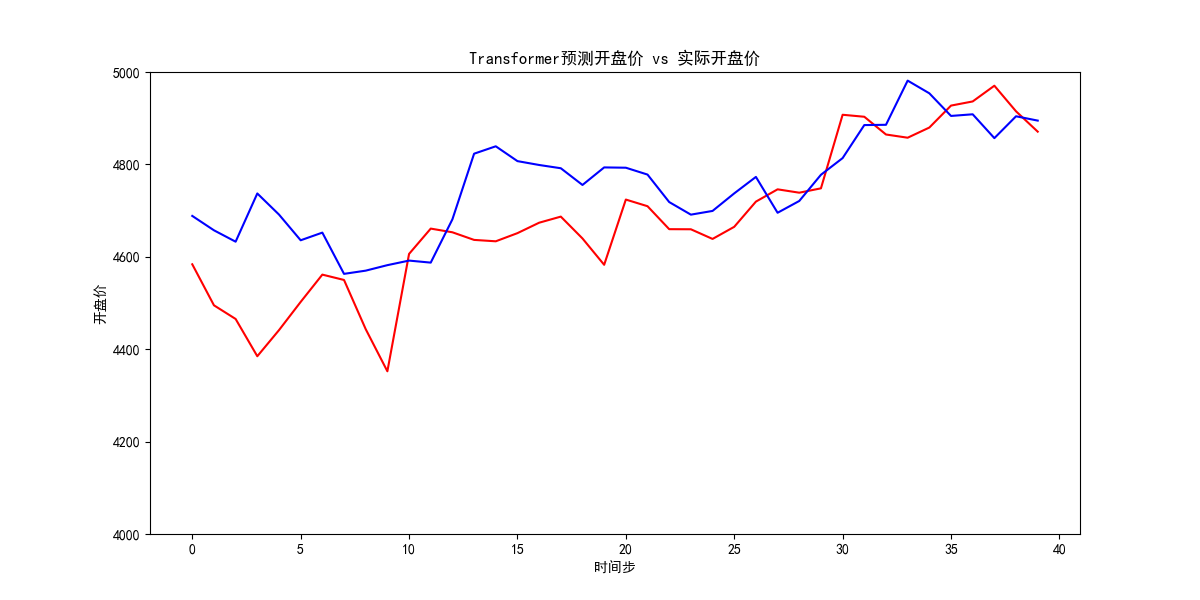
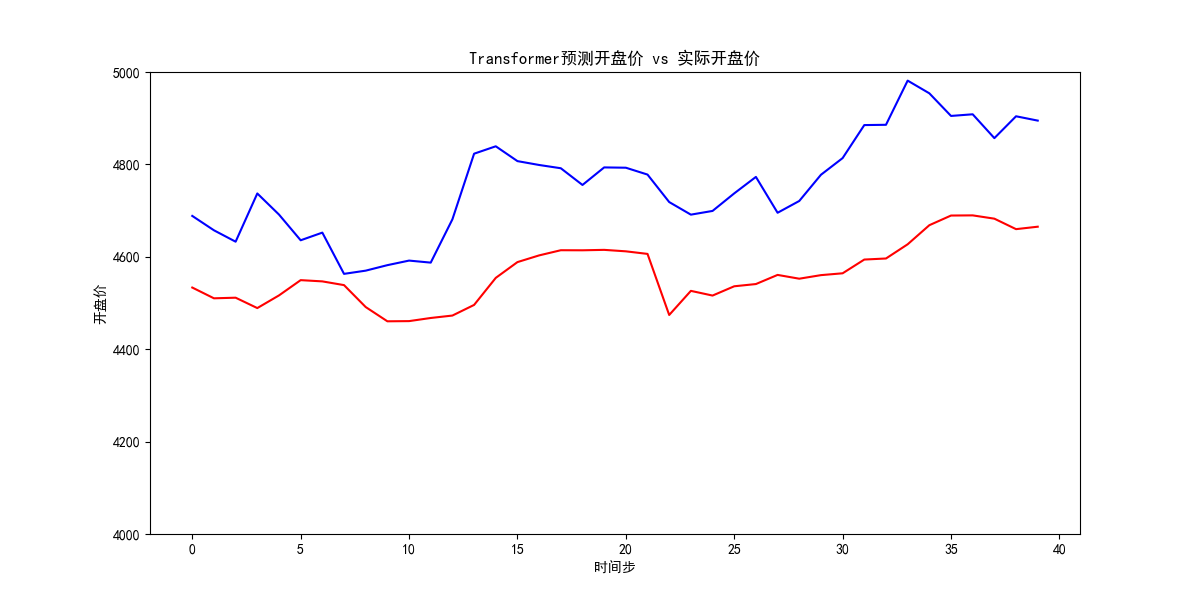
tenth modification

diff --git a/transfomer_stock_prediction.py b/transfomer_stock_prediction.py
@@ -13,16 +13,18 @@ import torch.nn.functional as F
 torch.random.manual_seed(0)
 np.random.seed(0)
 
-time_step = 10  # 根据10天数据预测第11天
-
-df = pd.read_csv("merged_file.csv")
-
-
-flag = input("是否进行股票市场舆情分析[是]|[否]:")
+flag = input("是否进行股票市场舆情分析[是]|[否](默认):")
 if flag == "是":
     vector_size = 6
 else:
     vector_size = 5
+
+# 前10天分析第11天
+time_step = 10
+# 按照9：1划分数据集
+train_ratio = 0.9
+# 设置训练轮次
+epoch = 5
 
 
 class PositionalEncoding(nn.Module):
@@ -50,7 +52,7 @@ class PositionalEncoding(nn.Module):
 class TransAm(nn.Module):
     def __init__(
         self, feature_size=vector_size, num_layers=2, hidden_size=64, dropout=0.1
-    ):  # 修改特征维度为 6
+    ):
         super(TransAm, self).__init__()
         self.model_type = "Transformer"
         self.hidden_size = hidden_size
@@ -59,7 +61,7 @@ class TransAm(nn.Module):
         # 将 feature_size 传递给 PositionalEncoding，以便匹配新的输入维度
         self.pos_encoder = PositionalEncoding(d_model=feature_size)
         self.encoder_layer = nn.TransformerEncoderLayer(
-            d_model=feature_size, nhead=1, dropout=dropout, batch_first=True
+            d_model=feature_size, nhead=feature_size, dropout=dropout, batch_first=True
         )
         self.transformer_encoder = nn.TransformerEncoder(
             self.encoder_layer, num_layers=num_layers
@@ -150,7 +152,7 @@ class AttnDecoder(nn.Module):
 
 
 class StockDataset(Dataset):
-    def __init__(self, file_path, train_ratio, time_step, train_flag):
+    def __init__(self, file_path, train_flag):
         # 读取数据
         df = pd.read_csv(file_path)
         # 确定特征数据
@@ -186,47 +188,10 @@ class StockDataset(Dataset):
         return data, label
 
     def inverse_normalize(self, standardized_data):
-        """
-        反标准化方法，支持处理嵌套列表
-        :param standardized_data: 标准化后的数据
-        :return: 原始数据
-        """
+        # 对每个数据进行反标准化
         if isinstance(standardized_data, list):
             return [self.inverse_normalize(x) for x in standardized_data]
         return standardized_data * self.std[3] + self.mean[3]
-
-
-def l2_loss(pred, label):
-    loss = torch.nn.functional.mse_loss(pred, label, size_average=True)
-    return loss
-
-
-def train_once(encoder, decoder, dataloader, encoder_optim, decoder_optim):
-    encoder.train()
-    decoder.train()
-    loader = tqdm.tqdm(dataloader)
-    loss_epoch = 0
-    for idx, (data, label) in enumerate(loader):
-        data_x = data.transpose(0, 1).float()  # (time_step, batch_size, num_features)
-        label = label.float()
-
-        # 打印数据形状进行调试
-        print("data_x shape:", data_x.shape)
-        print("label shape:", label.shape)
-
-        code_hidden = encoder(data_x)
-        code_hidden = code_hidden.transpose(0, 1)
-        output = decoder(code_hidden, data.float())
-
-        encoder_optim.zero_grad()
-        decoder_optim.zero_grad()
-        loss = l2_loss(output.squeeze(1), label)
-        loss.backward()
-        encoder_optim.step()
-        decoder_optim.step()
-        loss_epoch += loss.detach().item()
-    loss_epoch /= len(loader)
-    return loss_epoch
 
 
 def l2_loss(pred, label):
@@ -235,144 +200,151 @@ def l2_loss(pred, label):
     return loss
 
 
-def eval_once(encoder, decoder, dataloader):
+def train_once(encoder, decoder, train_loader, encoder_optim, decoder_optim):
+    # 设置为训练模式
+    encoder.train()
+    decoder.train()
+    # 设置进度条
+    loader = tqdm.tqdm(train_loader)
+    # 初始化平均损失值
+    loss_epoch = 0
+    for idx, (data, label) in enumerate(loader):
+        # 转换数据类型
+        data = data.float()
+        label = label.float()
+        # 交换原始数据0，1维向量
+        transposed_data = data.transpose(0, 1)
+        # 对数据进行编码
+        encode_data = encoder(transposed_data)
+        # 对数据进行解码
+        decode_data = decoder(encode_data.transpose(0, 1), data)
+        # 获取预测值
+        pred = decode_data.squeeze(1)
+        # 梯度清零
+        encoder_optim.zero_grad()
+        decoder_optim.zero_grad()
+        # 计算损失值
+        loss = l2_loss(pred, label)
+        # 进行反向传播，计算梯度
+        loss.backward()
+        # 更新参数
+        encoder_optim.step()
+        decoder_optim.step()
+        # 累加损失值
+        loss_epoch += loss.detach().item()
+    loss_epoch /= len(loader)
+    return loss_epoch
+
+
+def eval_once(encoder, decoder, val_loader):
+    # 设置为评估模式
     encoder.eval()
     decoder.eval()
-    loader = tqdm.tqdm(dataloader)
+    # 取消数据打乱
+    val_loader.shuffle = False
+    # 设置进度条
+    loader = tqdm.tqdm(val_loader)
+    # 初始化损失值
     loss_epoch = 0
+    # 初始化预测值和原始值
     preds = []
     labels = []
     for idx, (data, label) in enumerate(loader):
-        data_x = data.transpose(0, 1).float()  # (time_step, batch_size, num_features)
+        # 转换数据类型
+        data = data.float()
         label = label.float()
-        data_y = data.float().transpose(0, 1)
-
-        code_hidden = encoder(data_x)
-        output = decoder(code_hidden, data_y).squeeze(1)
-
-        # 确保 output 和 label 的长度一致
+        # 交换原始数据0，1维向量
+        transposed_data = data.transpose(0, 1)
+        # 对数据进行编码
+        encode_data = encoder(transposed_data)
+        # 对数据进行解码
+        decode_data = decoder(encode_data.transpose(0, 1), data)
+        # 获取预测值
+        output = decode_data.squeeze(1)
+        # 确定输出时间步长
         min_len = min(output.size(0), label.size(0))
         output = output[:min_len]
         label = label[:min_len]
-
+        # 计算损失值
         loss = l2_loss(output, label)
         loss_epoch += loss.detach().item()
-
+        # 获取预测数据和原始数据
         preds += output.detach().tolist()
         labels += label.detach().tolist()
-
+    # 计算准确率
     if len(preds) > 1 and len(labels) > 1:
         preds = torch.Tensor(preds)
         labels = torch.Tensor(labels)
+        # 判断增长趋势
         pred_ = preds[1:] > preds[:-1]
         label_ = labels[1:] > labels[:-1]
         accuracy = (label_ == pred_).sum().item() / len(pred_)
     else:
         accuracy = 0
-
     loss_epoch /= len(loader)
-    return loss_epoch, accuracy
+    return loss_epoch, accuracy, preds, labels
 
 
-def eval_plot(encoder, decoder, dataloader, dataset):
-    dataloader.shuffle = False
-    preds = []
-    labels = []
-    encoder.eval()
-    decoder.eval()
-    loader = tqdm.tqdm(dataloader)
-    for idx, (data, label) in enumerate(loader):
-        data_x = data.transpose(0, 1).float()
-        data_y = data.float()
-
-        # 强制调整 data_y 的时间步长度为 time_step
-        if data_y.size(1) > time_step:
-            data_y = data_y[:, :time_step, :]
-        elif data_y.size(1) < time_step:
-            padding = torch.zeros(
-                (data_y.size(0), time_step - data_y.size(1), data_y.size(2))
-            )
-            data_y = torch.cat((data_y, padding), dim=1)
-
-        code_hidden = encoder(data_x)
-
-        # 确保 code_hidden 和 data_y 有一致的 batch size
-        if code_hidden.size(0) != data_y.size(0):
-            if code_hidden.size(0) > data_y.size(0):
-                code_hidden = code_hidden[: data_y.size(0)]
-            else:
-                data_y = data_y[: code_hidden.size(0)]
-
-        output = decoder(code_hidden, data_y)
-        preds += output.detach().tolist()
-        labels += label.detach().tolist()
-
-    # 裁剪 preds 和 labels 以匹配较短的长度
-    min_len = min(len(preds), len(labels))
-    preds = preds[:40]
-    labels = labels[:40]
-
+def data_plot(preds, labels, val_data):
+    # 设置时间步长
+    day = 40
+    # x轴数据
+    days = list(range(day))
+    # y轴数据
+    preds = preds[:day]
+    labels = labels[:day]
     # 反标准化
-    inverse_preds = [dataset.inverse_normalize(p) for p in preds]
-    inverse_labels = [dataset.inverse_normalize(l) for l in labels]
-
-    preds = inverse_preds
-    labels = inverse_labels
-
+    preds = [val_data.inverse_normalize(p) for p in preds]
+    labels = [val_data.inverse_normalize(l) for l in labels]
+    # 设置画布大小
     fig, ax = plt.subplots(figsize=(12, 6))
-    data_x = list(range(len(preds)))
-    ax.plot(data_x, preds, label="predict", color="red")
-    ax.plot(data_x, labels, label="ground truth", color="blue")
+    # 添加x,y内容
+    ax.plot(days, preds, label="预测值", color="red")
+    ax.plot(days, labels, label="实际值", color="blue")
+    # 设置横纵主题
     ax.set_xlabel("时间步")
     ax.set_ylabel("开盘价")
+    # 设置图表主题
     ax.set_title("Transformer预测开盘价 vs 实际开盘价")
+    # 固定y轴范围
     plt.ylim(4000, 5000)
+    # 自定义参数
     plt.rcParams["font.sans-serif"] = ["SimHei"]
     plt.rcParams["axes.unicode_minus"] = False
-    plt.savefig("shangzheng-tran-lstmnoavg.png")
     plt.grid(True, linestyle="--", alpha=0.7)
     plt.legend()
+    # 绘图
     plt.show()
+    # 保存
+    plt.savefig("result.png")
 
 
 def main():
-    # 训练集
-    dataset_train = StockDataset(
-        file_path="merged_file.csv", train_ratio=0.9, time_step=10, train_flag=True
-    )
-    # 验证集
-    dataset_val = StockDataset(
-        file_path="merged_file.csv", train_ratio=0.9, time_step=10, train_flag=False
-    )
-
-    # 将 drop_last=True 仅用于训练集，确保验证集的批次不会丢失数据
-    train_loader = DataLoader(
-        dataset_train, batch_size=32, shuffle=True, drop_last=True
-    )
-    val_loader = DataLoader(dataset_val, batch_size=32, shuffle=False, drop_last=False)
-
+    # 初始化数据集
+    train_data = StockDataset(file_path="merged_file.csv", train_flag=True)
+    val_data = StockDataset(file_path="merged_file.csv", train_flag=False)
+    # 初始化编码层解码层
+    train_loader = DataLoader(train_data, batch_size=32, shuffle=True, drop_last=True)
+    val_loader = DataLoader(val_data, batch_size=32, shuffle=False, drop_last=False)
     # 初始化编码器和解码器
-    encoder = TransAm(feature_size=vector_size)  # 设置特征维度为 6
+    encoder = TransAm(feature_size=vector_size)
     decoder = AttnDecoder(code_hidden_size=64, hidden_size=64, time_step=time_step)
-
+    # 初始化优化器
     encoder_optim = torch.optim.Adam(encoder.parameters(), lr=0.001)
     decoder_optim = torch.optim.Adam(decoder.parameters(), lr=0.001)
-
-    total_epoch = 10
-    for epoch_idx in range(total_epoch):
+    # 训练阶段
+    print("-------------------------STAGE: TRAIN -------------------------")
+    for idx in range(epoch):
         train_loss = train_once(
             encoder, decoder, train_loader, encoder_optim, decoder_optim
         )
-        print("stage: train, epoch:{:5d}, loss:{}".format(epoch_idx, train_loss))
-
-        if epoch_idx % 9 == 0:
-            eval_loss, accuracy = eval_once(encoder, decoder, val_loader)
-            print(
-                "####stage: test, epoch:{:5d}, loss:{}, accuracy:{}".format(
-                    epoch_idx, eval_loss, accuracy
-                )
-            )
-            eval_plot(encoder, decoder, val_loader, dataset_val)
+        print("epoch:{:5d}, loss:{}".format(idx + 1, train_loss))
+    # 验证阶段
+    eval_loss, accuracy, preds, labels = eval_once(encoder, decoder, val_loader)
+    print("-------------------------STAGE: VALIDATION -------------------------")
+    print("epoch:{:5d}, loss:{}, accuracy:{}".format(idx, eval_loss, accuracy))
+    # 绘图
+    data_plot(preds, labels, val_data)
 
 
 if __name__ == "__main__":
